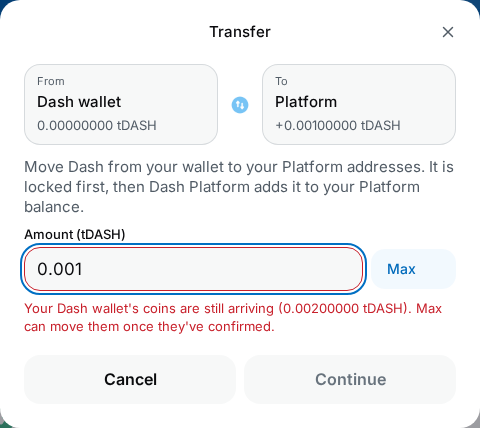
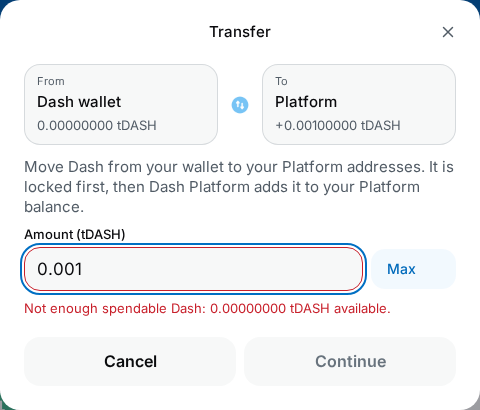
docs: refresh PR 1097 transfer artifacts

diff --git a/README.md b/README.md
@@ -1,0 +1,8 @@
+# Dash wallet Transfer artifacts for PR #1097
+
+| Column | Revision | Capture |
+| --- | --- | --- |
+| Before | 45a240409ddad0a93aab82285bd4324876e4c8c8 | Playwright v1.64.0 noble image, Chromium, fixture build |
+| After | 030fa45720694823a308052e22aeab15b9ed3228 | Playwright v1.64.0 noble image, Chromium, fixture build |
+
+The pairs cover the changed Core Max Transfer states in light and dark for Dash wallet to Shielded and Dash wallet to Platform. The base and head fixtures were run independently with the same Docker image and viewport. The visual runner passed 504 baseline cases at the head. The affected Transfer specs passed 814 cases across Chromium and WebKit at the head.
